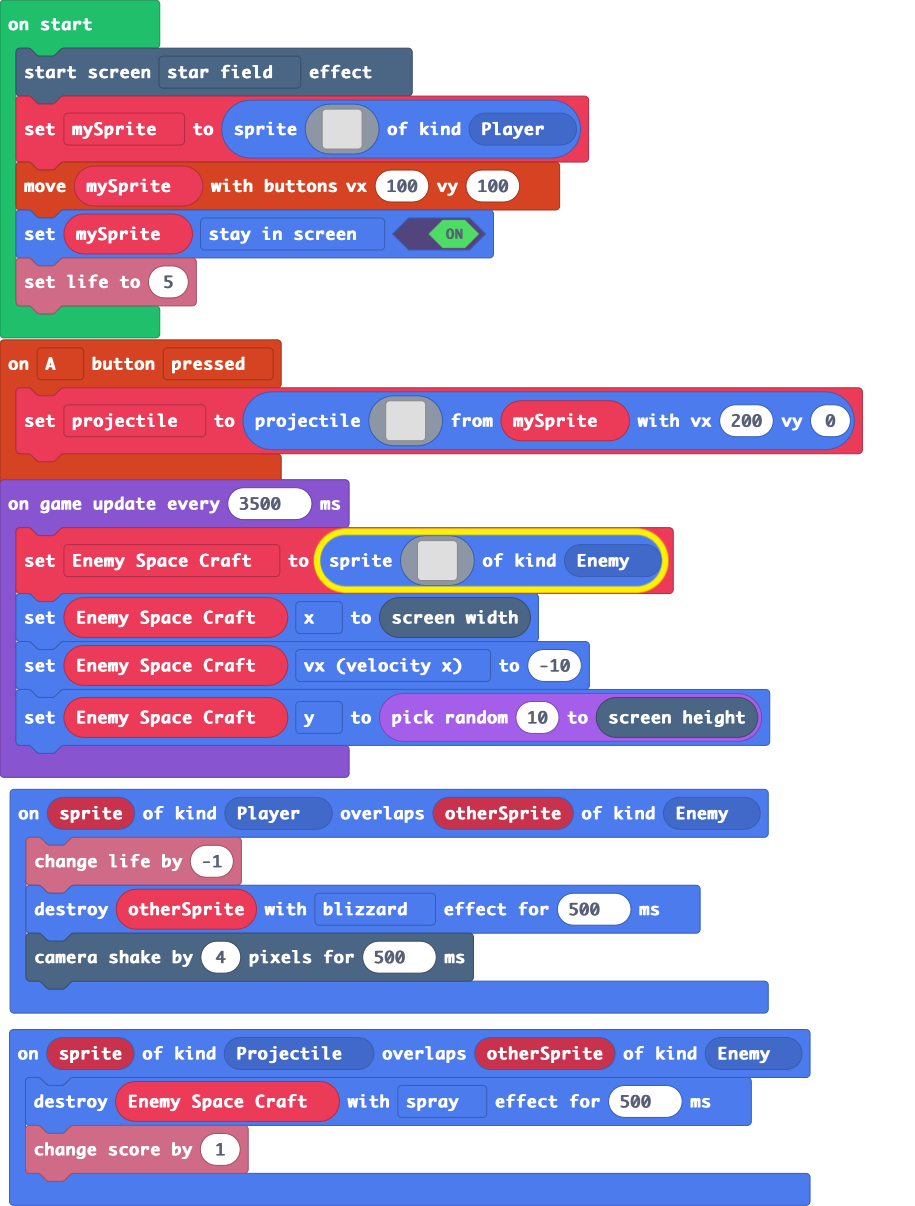
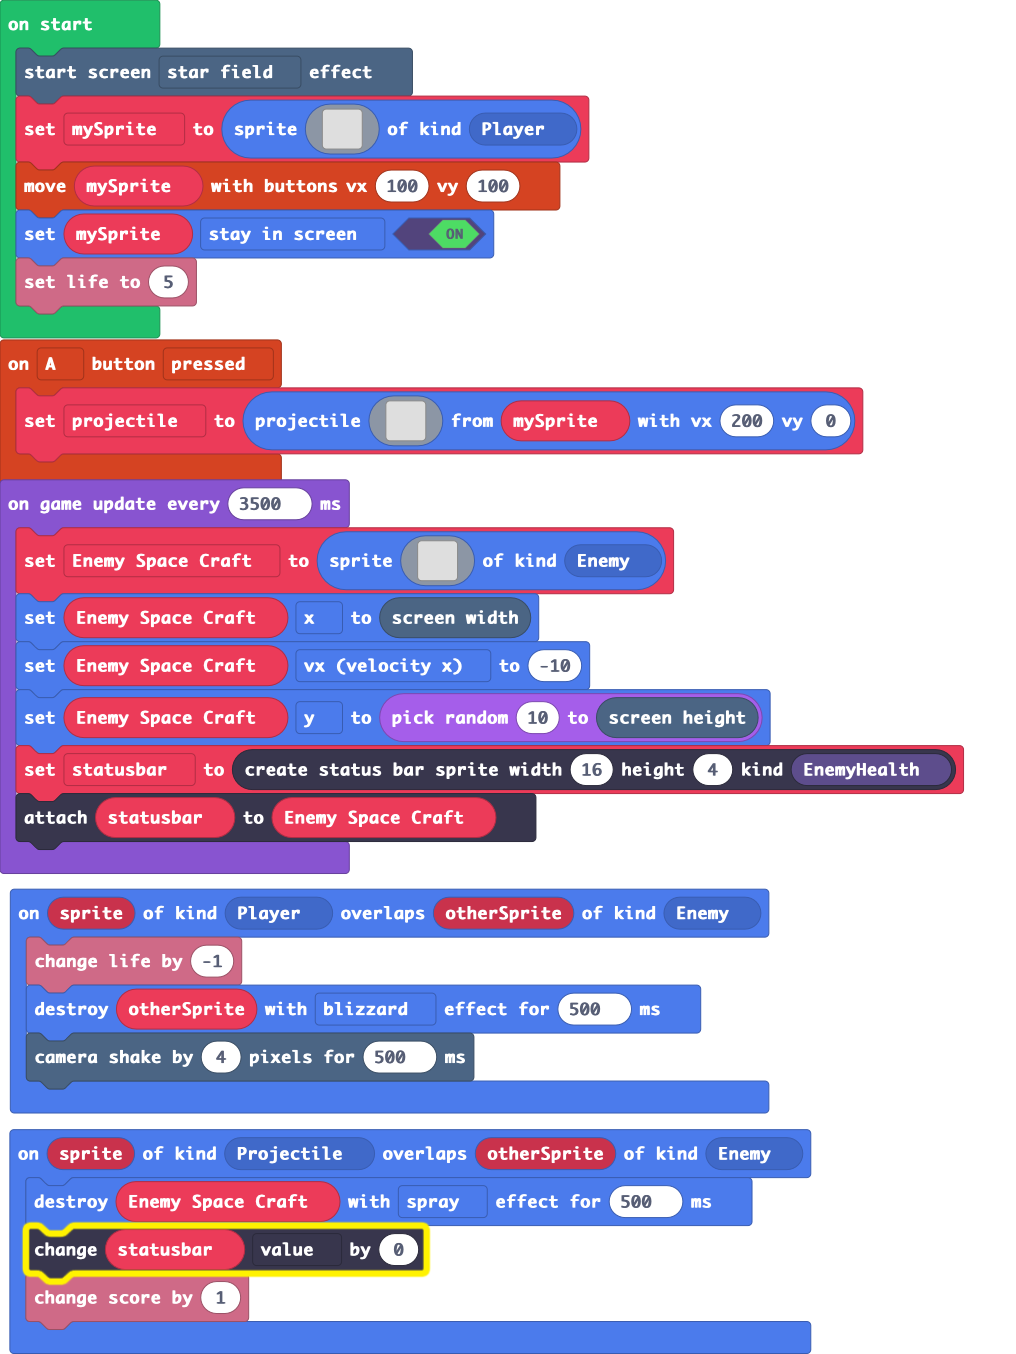
Health bars

diff --git a/main.ts b/main.ts
@@ -20,6 +20,7 @@ controller.A.onEvent(ControllerButtonEvent.Pressed, function () {
 })
 sprites.onOverlap(SpriteKind.Projectile, SpriteKind.Enemy, function (sprite, otherSprite) {
     Enemy_Space_Craft.destroy(effects.spray, 500)
+    statusbar.value += 0
     info.changeScoreBy(1)
 })
 sprites.onOverlap(SpriteKind.Player, SpriteKind.Enemy, function (sprite, otherSprite) {
@@ -27,6 +28,7 @@ sprites.onOverlap(SpriteKind.Player, SpriteKind.Enemy, function (sprite, otherSp
     otherSprite.destroy(effects.blizzard, 500)
     scene.cameraShake(4, 500)
 })
+let statusbar: StatusBarSprite = null
 let Enemy_Space_Craft: Sprite = null
 let projectile: Sprite = null
 let mySprite: Sprite = null
@@ -74,4 +76,6 @@ game.onUpdateInterval(3500, function () {
     Enemy_Space_Craft.x = scene.screenWidth()
     Enemy_Space_Craft.vx = -10
     Enemy_Space_Craft.y = randint(10, scene.screenHeight())
+    statusbar = statusbars.create(16, 4, StatusBarKind.EnemyHealth)
+    statusbar.attachToSprite(Enemy_Space_Craft)
 })
